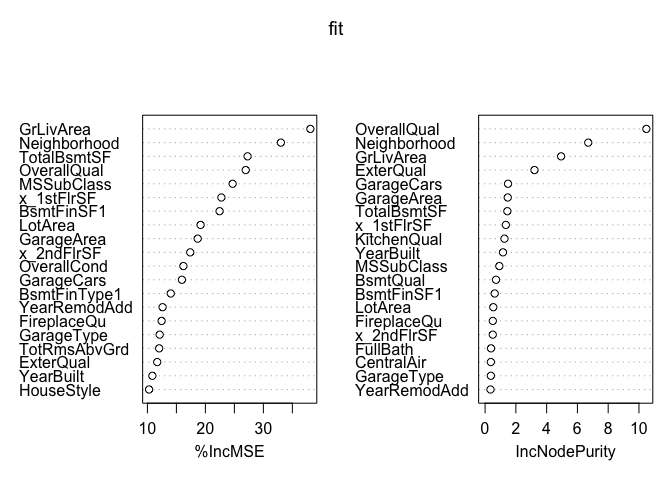
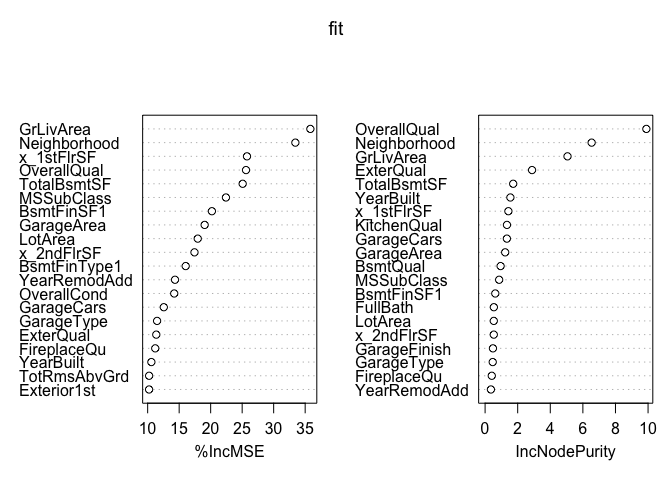
dotting the i's and crossing the t's

diff --git a/exploratory_cat_data_analysis.md b/exploratory_cat_data_analysis.md
@@ -32,7 +32,19 @@ From the above graphs, there are definitely features that have similar shapes. H
 
 When reading **data\_descr.txt** it is clear that some variables are highly correlated purely by definition. Let's explore those in detail and decide which to keep.
 
-Highly correlated by definition, results in the following 'grouped' variables: *Property Variables: Street, Alley, LotShape, LandContour, LandSlope, LotConfig *Dwelling/ Living Variables: BldgType, HouseStyle, MSSubClass, MSZoning, Neighborhood *Utility: Utilities, Electrical *Overall Quality & Condition: OverallQual, OverallCond, Functional *Material of House: OverallQual, RoofMatl, Exterior1st, Exterior2nd, MasVnrType, ExterQual, ExterCond, Foundation *Roof: RoofStyle, RoofMatl *Basement: BsmtQual, BsmtCond, BsmtExposure, BsmtFinType1, BsmtFinType2 *Heating: Heating, HeatingQC, CentralAir, FireplaceQu *Garage: GarageType, GarageFinish, GarageQual, GarageCond, PavedDrive *Misc: PoolQC, Fence, MiscFeature, KitchenQual \*Nature of Sale: SaleType, SaleCondition
+Highly correlated by definition, results in the following 'grouped' variables:
+
+-   Property Variables: Street, Alley, LotShape, LandContour, LandSlope, LotConfig
+-   Dwelling/ Living Variables: BldgType, HouseStyle, MSSubClass, MSZoning, Neighborhood
+-   Utility: Utilities, Electrical
+-   Overall Quality & Condition: OverallQual, OverallCond, Functional
+-   Material of House: OverallQual, RoofMatl, Exterior1st, Exterior2nd, MasVnrType, ExterQual, ExterCond, Foundation
+-   Roof: RoofStyle, RoofMatl
+-   Basement: BsmtQual, BsmtCond, BsmtExposure, BsmtFinType1, BsmtFinType2
+-   Heating: Heating, HeatingQC, CentralAir, FireplaceQu
+-   Garage: GarageType, GarageFinish, GarageQual, GarageCond, PavedDrive
+-   Misc: PoolQC, Fence, MiscFeature, KitchenQual
+-   Nature of Sale: SaleType, SaleCondition
 
 Correlation of Label Encoded Features
 -------------------------------------
@@ -147,83 +159,83 @@ Let's look at a Random Forest model that will highlight the important features t
 
 ![](exploratory_cat_data_analysis_files/figure-markdown_github-ascii_identifiers/unnamed-chunk-7-1.png)
 
-    ##                  %IncMSE IncNodePurity
-    ## set_id         0.0000000  0.000000e+00
-    ## Id            -0.2295387  1.548827e-01
-    ## MSSubClass    24.7006491  9.238635e-01
-    ## MSZoning       9.1805534  2.176460e-01
-    ## LotArea       19.1723641  5.317503e-01
-    ## Street        -1.4103309  3.773289e-03
-    ## Alley          1.6955427  2.742265e-02
-    ## LotShape       5.4542197  4.069892e-02
-    ## LandContour    3.6935283  5.962471e-02
-    ## Utilities      0.0000000  6.075822e-04
-    ## LotConfig      0.8003341  4.204032e-02
-    ## LandSlope      3.1243847  2.528968e-02
-    ## Neighborhood  33.0162194  6.704076e+00
-    ## Condition1     2.2524630  5.785015e-02
-    ## Condition2    -0.8467243  6.225906e-03
-    ## BldgType       7.1014352  3.958928e-02
-    ## HouseStyle    10.2909754  9.626345e-02
-    ## OverallQual   26.9551421  1.048070e+01
-    ## OverallCond   16.2071488  3.262616e-01
-    ## YearBuilt     10.8530523  1.162783e+00
-    ## YearRemodAdd  12.6213490  3.499204e-01
-    ## RoofStyle      2.2238683  4.699960e-02
-    ## RoofMatl       0.1366940  1.433382e-02
-    ## Exterior1st    9.0140572  3.167001e-01
-    ## Exterior2nd   10.2153710  3.226340e-01
-    ## ExterQual     11.6889162  3.208737e+00
-    ## ExterCond      2.5335546  6.906112e-02
-    ## Foundation     5.8796696  6.053008e-02
-    ## BsmtQual       7.5697608  7.097205e-01
-    ## BsmtCond       7.7528229  7.224474e-02
-    ## BsmtExposure   8.7367669  8.061753e-02
-    ## BsmtFinType1  14.0256362  1.685725e-01
-    ## BsmtFinSF1    22.4468990  6.231602e-01
-    ## BsmtFinType2   0.6739879  2.402135e-02
-    ## BsmtFinSF2     2.0753534  2.253327e-02
-    ## BsmtUnfSF      9.7344819  2.036915e-01
-    ## TotalBsmtSF   27.2735855  1.446216e+00
-    ## Heating       -2.6772748  2.041336e-02
-    ## HeatingQC      3.4315956  7.941516e-02
-    ## CentralAir     6.7518543  3.756008e-01
-    ## x_1stFlrSF    22.7595166  1.348306e+00
-    ## x_2ndFlrSF    17.3880317  4.973422e-01
-    ## LowQualFinSF  -0.3463479  1.068361e-02
-    ## GrLivArea     38.1029519  4.940502e+00
-    ## BsmtFullBath  10.2791991  6.127619e-02
-    ## BsmtHalfBath   1.7554944  9.573142e-03
-    ## FullBath       8.5767149  3.843413e-01
-    ## HalfBath       8.5735222  4.737874e-02
-    ## BedroomAbvGr   9.2348528  1.090029e-01
-    ## KitchenAbvGr   4.1817714  1.619542e-02
-    ## KitchenQual    8.9223292  1.258524e+00
-    ## TotRmsAbvGrd  12.0293521  2.661983e-01
-    ## Functional     2.5248404  4.984730e-02
-    ## Fireplaces     9.0317967  2.700250e-01
-    ## FireplaceQu   12.4446886  5.011678e-01
-    ## GarageType    12.1129917  3.752428e-01
-    ## GarageFinish   8.1402466  2.763453e-01
-    ## GarageCars    15.9537547  1.491877e+00
-    ## GarageArea    18.6688848  1.471223e+00
-    ## GarageQual     4.8809810  8.580358e-02
-    ## GarageCond     3.8531678  9.369903e-02
-    ## PavedDrive     2.8542121  3.801349e-02
-    ## WoodDeckSF     6.3921538  1.127992e-01
-    ## OpenPorchSF    9.2465319  1.881850e-01
-    ## EnclosedPorch  1.7395513  6.111238e-02
-    ## x_3SsnPorch    1.3082772  5.134175e-03
-    ## ScreenPorch    4.3925704  2.785632e-02
-    ## PoolArea       1.0010015  2.695676e-03
-    ## PoolQC        -1.0505044  1.483834e-03
-    ## Fence          0.3172713  2.780403e-02
-    ## MiscFeature   -0.8857804  6.893715e-03
-    ## MiscVal        2.0683666  6.846851e-03
-    ## MoSold         2.1077085  1.321873e-01
-    ## YrSold         2.8091886  6.365697e-02
-    ## SaleType       1.8484367  3.785968e-02
-    ## SaleCondition -0.2345705  1.267182e-01
+    ##                   %IncMSE IncNodePurity
+    ## set_id         0.00000000   0.000000000
+    ## Id            -1.62085130   0.155755352
+    ## MSSubClass    22.42633702   0.862198480
+    ## MSZoning       9.56020857   0.213367615
+    ## LotArea       17.94875137   0.533404748
+    ## Street        -0.91596890   0.002985877
+    ## Alley          0.52099744   0.024235232
+    ## LotShape       3.14217371   0.040474375
+    ## LandContour    1.42615909   0.057464844
+    ## Utilities      0.00000000   0.000186652
+    ## LotConfig     -0.94055351   0.042544639
+    ## LandSlope      1.01286094   0.026370955
+    ## Neighborhood  33.44493915   6.537928823
+    ## Condition1     2.85345554   0.058215541
+    ## Condition2    -1.47756687   0.004324657
+    ## BldgType       5.47130376   0.032011037
+    ## HouseStyle     9.40406985   0.098673910
+    ## OverallQual   25.61062435   9.895127313
+    ## OverallCond   14.21612998   0.298513255
+    ## YearBuilt     10.58858733   1.551888182
+    ## YearRemodAdd  14.34073060   0.356941634
+    ## RoofStyle      3.31847347   0.044908642
+    ## RoofMatl      -1.34074817   0.009391449
+    ## Exterior1st   10.22772544   0.291872978
+    ## Exterior2nd   10.13389273   0.348332766
+    ## ExterQual     11.36883134   2.881221291
+    ## ExterCond      1.85521196   0.064408752
+    ## Foundation     5.30978037   0.083730410
+    ## BsmtQual       7.90337725   0.951839492
+    ## BsmtCond       6.42762944   0.068451022
+    ## BsmtExposure   8.49666210   0.087056413
+    ## BsmtFinType1  16.03694142   0.150590449
+    ## BsmtFinSF1    20.19797921   0.625668839
+    ## BsmtFinType2   1.32426553   0.028265810
+    ## BsmtFinSF2    -0.37257810   0.022565384
+    ## BsmtUnfSF      9.47623927   0.199252191
+    ## TotalBsmtSF   25.08134710   1.723555440
+    ## Heating       -0.95938666   0.022790289
+    ## HeatingQC      6.13858431   0.075509359
+    ## CentralAir     8.16771361   0.317011813
+    ## x_1stFlrSF    25.76573183   1.429096426
+    ## x_2ndFlrSF    17.43165893   0.532741673
+    ## LowQualFinSF   1.08537865   0.007815918
+    ## GrLivArea     35.82300425   5.056987507
+    ## BsmtFullBath   8.61183429   0.063737683
+    ## BsmtHalfBath   0.93617714   0.010593707
+    ## FullBath       7.42536782   0.538026276
+    ## HalfBath       9.23911652   0.041722256
+    ## BedroomAbvGr   8.17311115   0.102997696
+    ## KitchenAbvGr   4.43374542   0.016895030
+    ## KitchenQual    9.49776975   1.341765142
+    ## TotRmsAbvGrd  10.23064571   0.264061380
+    ## Functional     4.43738678   0.056517886
+    ## Fireplaces     9.21926473   0.309333646
+    ## FireplaceQu   11.20285604   0.409872639
+    ## GarageType    11.49432814   0.468158856
+    ## GarageFinish   7.66195321   0.481635395
+    ## GarageCars    12.56316783   1.336340240
+    ## GarageArea    19.04668785   1.232943792
+    ## GarageQual     4.21982708   0.079873302
+    ## GarageCond     4.38795825   0.142886814
+    ## PavedDrive     2.85413145   0.053930377
+    ## WoodDeckSF     7.76469669   0.107892701
+    ## OpenPorchSF    7.97274449   0.197077679
+    ## EnclosedPorch  1.63740175   0.061194488
+    ## x_3SsnPorch    0.58670365   0.006103717
+    ## ScreenPorch    4.52013424   0.024055512
+    ## PoolArea       1.38729072   0.004768739
+    ## PoolQC         1.36909576   0.002560823
+    ## Fence          1.84564465   0.026417091
+    ## MiscFeature    0.38377182   0.006503870
+    ## MiscVal       -0.77466297   0.007840936
+    ## MoSold        -0.06638808   0.131400757
+    ## YrSold         0.95353016   0.066657334
+    ## SaleType       1.39061282   0.038553043
+    ## SaleCondition  2.44566302   0.131550970
 
 Considering non-ordinal categorical features
 --------------------------------------------
